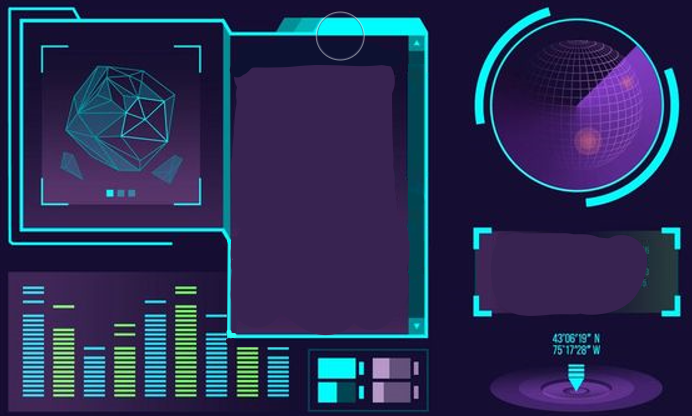
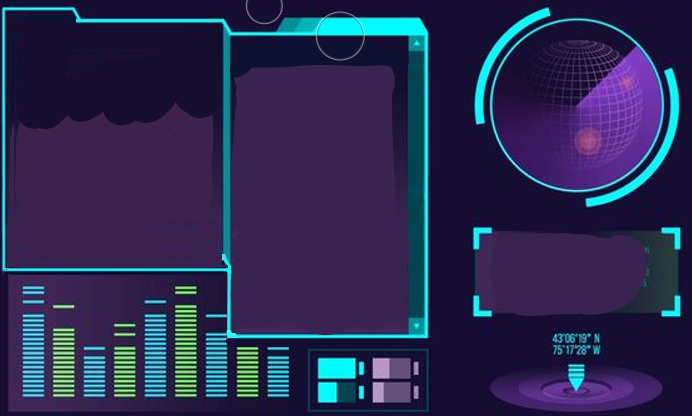
reviso rutas, mejoro imagenes fondo

Changed region(s): [[0.0, 0.0, 0.3338, 0.6875], [0.2428, 0.0938, 0.3035, 0.1875], [0.3642, 0.0312, 0.3945, 0.0625]]

diff --git a/src/app/starship/card/card.component.css b/src/app/starship/card/card.component.css
@@ -148,6 +148,8 @@
 
 @media only screen and (max-width: 560px) {
     .data-card{
+        background-image: url("/../assets/img/phoneCard.png") ;
+
         width: 100%;
         height: 375px;
 
@@ -163,6 +165,8 @@
         width:100%;
         height: 19%;
 
+        position:relative;
+
         margin-top: 0%;
         margin-right: 0px;
         margin-left:0%;
@@ -173,6 +177,12 @@
         background: rgba(128, 128, 128, .7);    /*  70% opaque grey */ 
         border: 5px outset rgb(0, 77, 128);
         border-radius: 20px;
+    }
+
+    .data-title b{
+        position: relative;
+        margin: 0 auto;
+        margin-top: 20%;
     }
 
     .data-content-pilots{

diff --git a/src/app/starship/report/report.component.html b/src/app/starship/report/report.component.html
@@ -1,7 +1,10 @@
 <section class="banner">
   
     <div class="">
-        <h4><a routerLink="/starship/index">Gran Astillero de Coruscant</a></h4>
+      <h5>
+        <a routerLink="/starship/index" >Astillero de Coruscant</a> /
+        <a href="/pilot/index">Cantina de Pilotos</a>
+      </h5>
         <a routerLink="/starship/create" class="btn btn-success">Añadir Nave</a>
         <a routerLink="/starship/report" class="btn btn-primary">Generar Informe</a>
     </div>

diff --git a/src/app/pilot/report/report.component.html b/src/app/pilot/report/report.component.html
@@ -1,7 +1,10 @@
 <section class="banner">
   
     <div class="">
-        <h4><a routerLink="/pilot/index">Listado de Pilotos Disponibles</a></h4>
+      <h5>
+        <a routerLink="/starship/index" >Astillero de Coruscant</a> /
+        <a href="/pilot/index">Cantina de Pilotos</a>
+      </h5>
         <a routerLink="/pilot/create" class="btn btn-success">Nuevo Piloto</a>
         <a routerLink="/pilot/report" class="btn btn-primary">Generar Informe</a>
     </div>

diff --git a/src/app/starship/index/index.component.html b/src/app/starship/index/index.component.html
@@ -2,7 +2,10 @@
 <section class="banner">
   
     <div class="">
-      <h4><a routerLink="/starship/index">Gran Astillero de Coruscant</a></h4>
+      <h5>
+        <a routerLink="/starship/index" >Astillero de Coruscant</a> /
+        <a href="/pilot/index">Cantina de Pilotos</a>
+      </h5>
       <a routerLink="/starship/create" class="btn btn-success">Añadir Nave</a>
       <a routerLink="/starship/report" class="btn btn-primary">Generar Informe</a>
 

diff --git a/src/app/pilot/index/index.component.html b/src/app/pilot/index/index.component.html
@@ -1,7 +1,10 @@
 <section class="banner">
   
     <div class="">
-        <h4>Listado de Pilotos Disponibles</h4>
+        <h5>
+            <a routerLink="/starship/index" >Astillero de Coruscant</a> /
+            <a href="/pilot/index">Cantina de Pilotos</a>
+        </h5>
         <a routerLink="/pilot/create" class="btn btn-success">Nuevo Piloto</a>
         <a routerLink="/pilot/report" class="btn btn-primary">Generar Informe</a>
     </div>

diff --git a/src/app/app.component.html b/src/app/app.component.html
@@ -16,12 +16,6 @@ PODER CAMBIAR TODOS LOS COMPONENTES DE DATOS EN EL FUTURO SI SE SIGUEN AÑADIEND
 
 
 	<!-- AQUI VAN LOS DATOS DE NAVEGACION DE TODO EL FRONT, SI ALGUNA VEZ HAY MAS SECCIONES SUS ENLACES IRÁN AQUI-->
-
-	<div class="nav-data">	
-		<h5>
-			<a routerLink="/starship/index" >Naves Espaciales</a> / <a href="/pilot/index">Pilotos</a>
-		</h5>
-	</div>
 	
 </div>
 

diff --git a/src/app/starship/card/card.component.html b/src/app/starship/card/card.component.html
@@ -4,6 +4,7 @@
   <!-- SE CREA Y APARECE EL TITULO NOMBRE DE LA NAVE -->
   <div class="data-title">
     <img src="/assets/img/1.png" alt="image" class="icon">
+    
     <b> {{ starship.name }}</b> <br>
   </div>
 

diff --git a/src/styles.css b/src/styles.css
@@ -22,7 +22,7 @@ body {
 
 .nav-main{
   width:100%;
-  height:138px;
+  height:111px;
   position:relative;
 
 
